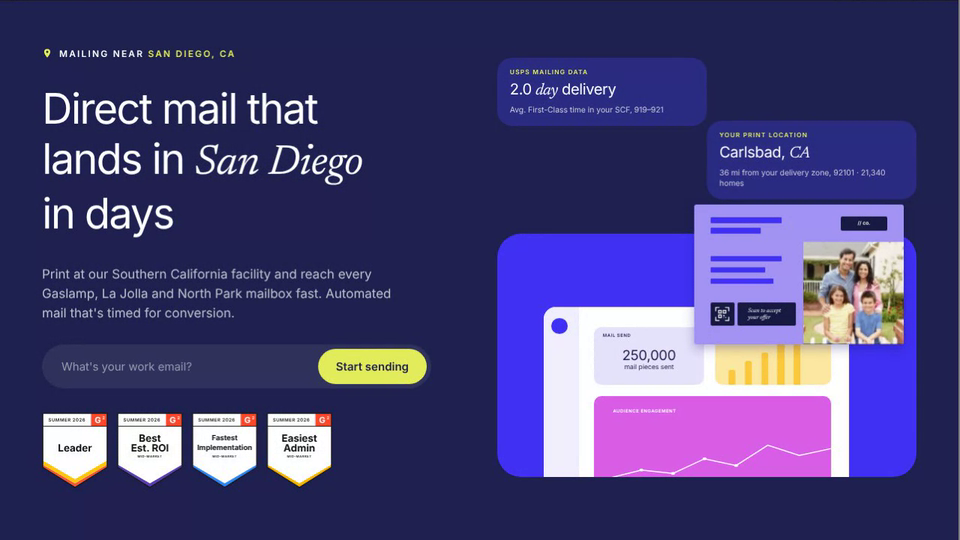
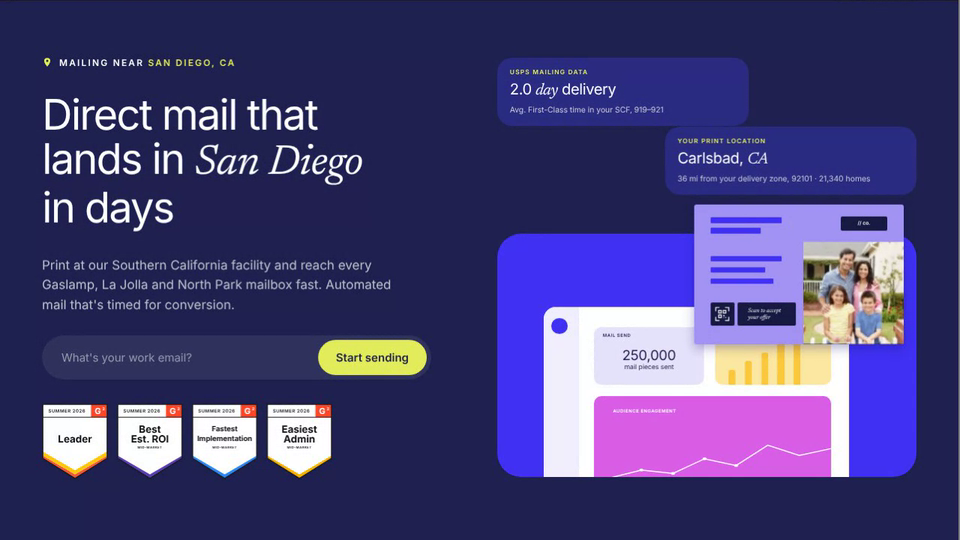
Location Hero: longer blurbs, tighter title line height
Claude-Session: https://claude.ai/code/session_01AHeBdxeACcd88pkrxSw1Hy

diff --git a/location-hero/index.html b/location-hero/index.html
@@ -23,7 +23,7 @@ nav.back span{color:#6e6e6e}nav.back b{font-weight:500;color:#fff;overflow:hidde
 .chip{display:inline-flex;align-items:center;gap:9px;font-size:12px;font-weight:600;letter-spacing:.18em;text-transform:uppercase}
 .chip svg{width:14px;height:14px;fill:var(--lime)}
 .chip em{font-style:normal;color:var(--lime)}
-h1{font-weight:400;font-size:clamp(34px,4.4vw,58px);line-height:1.18;letter-spacing:-2px;margin:30px 0 34px;white-space:nowrap}
+h1{font-weight:400;font-size:clamp(34px,4.4vw,58px);line-height:1.04;letter-spacing:-2px;margin:30px 0 34px;white-space:nowrap}
 h1 i{font-family:var(--serif);font-style:italic;letter-spacing:-.01em}
 .sw{display:inline-block;transition:opacity .35s,transform .35s,filter .35s}
 .sw.out{opacity:0;transform:translateY(10px);filter:blur(6px)}
@@ -38,8 +38,8 @@ h1 i{font-family:var(--serif);font-style:italic;letter-spacing:-.01em}
 
 /* illustration */
 .stage{position:relative;aspect-ratio:1/1;width:100%;max-width:600px;justify-self:end;container-type:inline-size}
-.blurbs div.bl{position:absolute;width:50%;background:var(--card);border-radius:20px;padding:2.6cqw 3cqw;color:#fff;transition:opacity .35s,transform .35s,filter .35s}
-#b1{left:0;top:0}#b2{right:0;top:15%}
+.blurbs div.bl{position:absolute;width:60%;background:var(--card);border-radius:20px;padding:2.6cqw 3cqw;color:#fff;transition:opacity .35s,transform .35s,filter .35s}
+#b1{left:0;top:0}#b2{right:0;top:16.5%}
 .bl.out{opacity:0;transform:translateY(8px);filter:blur(5px)}
 .bl small{display:block;font:600 1.5cqw/1 var(--sans);letter-spacing:.14em;text-transform:uppercase;color:var(--lime);margin-bottom:1.4cqw}
 .bl strong{display:block;font:400 3.6cqw/1.1 var(--sans);letter-spacing:-.02em}
